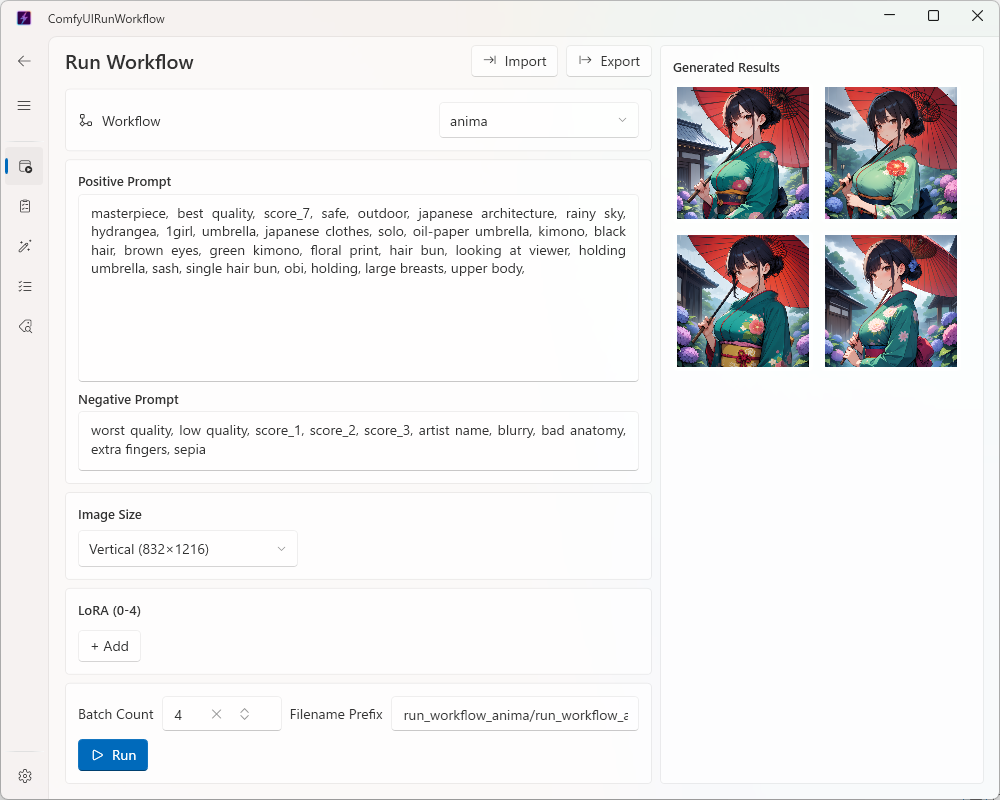
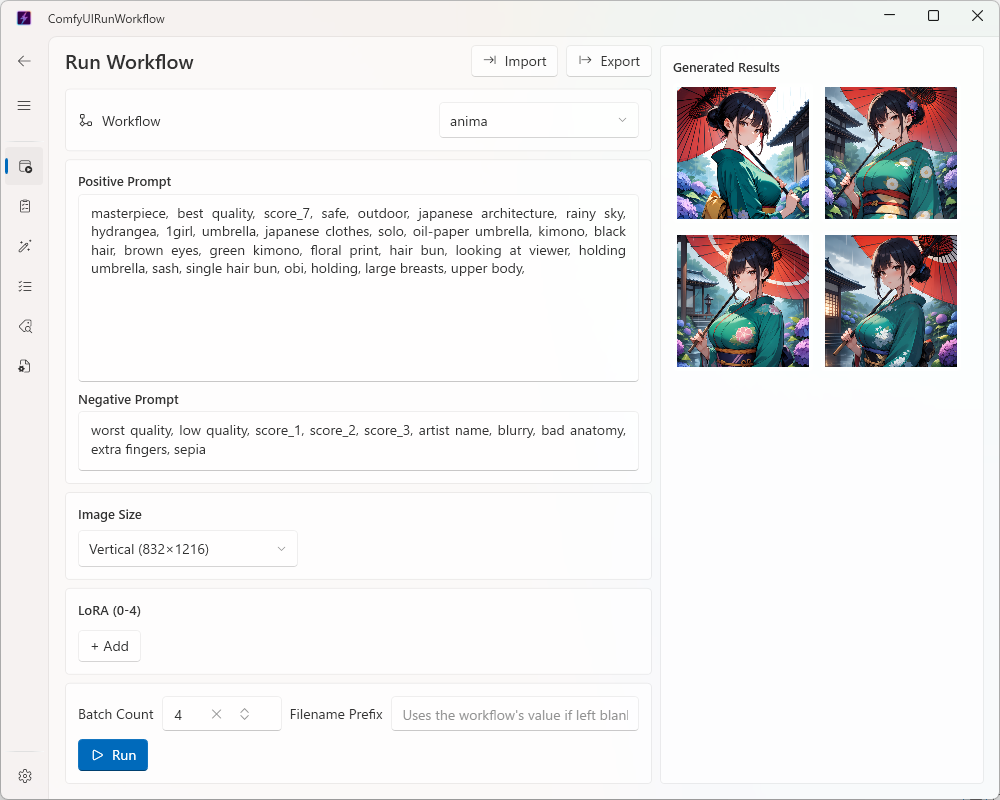
docs: スクリーンショットを最新化しConfigページのスクショを追加
全ページのスクリーンショットを撮り直して差し替え、新規にConfigページの
スクショ（日本語/英語）を追加。doc/usage.md・doc/manual/config.md・
doc/manual/config_english.mdからConfigページのスクショを参照するよう更新。

Changed region(s): [[0.651, 0.0938, 0.961, 0.4688], [0.403, 0.875, 0.62, 0.9062], [0.0, 0.4375, 0.031, 0.4688]]

diff --git a/doc/manual/config.md b/doc/manual/config.md
@@ -5,6 +5,8 @@
 `workflow_config.json` という、絵のスタイル（ワークフロー）や LoRA の設定が書かれたファイルを、テキストエディタを使わずにアプリの画面から編集できるページです。
 このページは主に、アプリをセットアップする管理者の方向けの機能です。ふだん画像を生成するだけであれば、このページを触る必要はありません。
 
+![Config ページ](../images/config_editor_page.png)
+
 ## 基本の使い方
 
 1. 画面上部の「comfyui_url」「default_workflow」などの共通設定を必要に応じて確認・変更します

diff --git a/doc/manual/config_english.md b/doc/manual/config_english.md
@@ -5,6 +5,8 @@
 This page lets you edit `workflow_config.json` — the file that defines art styles (workflows) and LoRA settings — right from the app's screen, without needing a text editor.
 This page is mainly intended for the administrator who sets up the app. If you're just generating images day to day, you don't need to use this page.
 
+![Config page](../images/config_editor_page_en.png)
+
 ## Basic Usage
 
 1. At the top of the screen, check and update the common settings ("comfyui_url", "default_workflow", etc.) as needed

diff --git a/doc/usage_english.md b/doc/usage_english.md
@@ -248,6 +248,8 @@ Tagging results are saved to `{results folder}/tag_result_{timestamp}.json` (man
 
 ## Config Page (Editing workflow_config.json)
 
+![Config page](images/config_editor_page_en.png)
+
 A page for directly editing and saving the `workflow_config.json` pointed to by the Settings page, right from the GUI. What previously required manually editing `workflow_config.json` in a text editor can now be done entirely within the app.
 
 ### Layout
